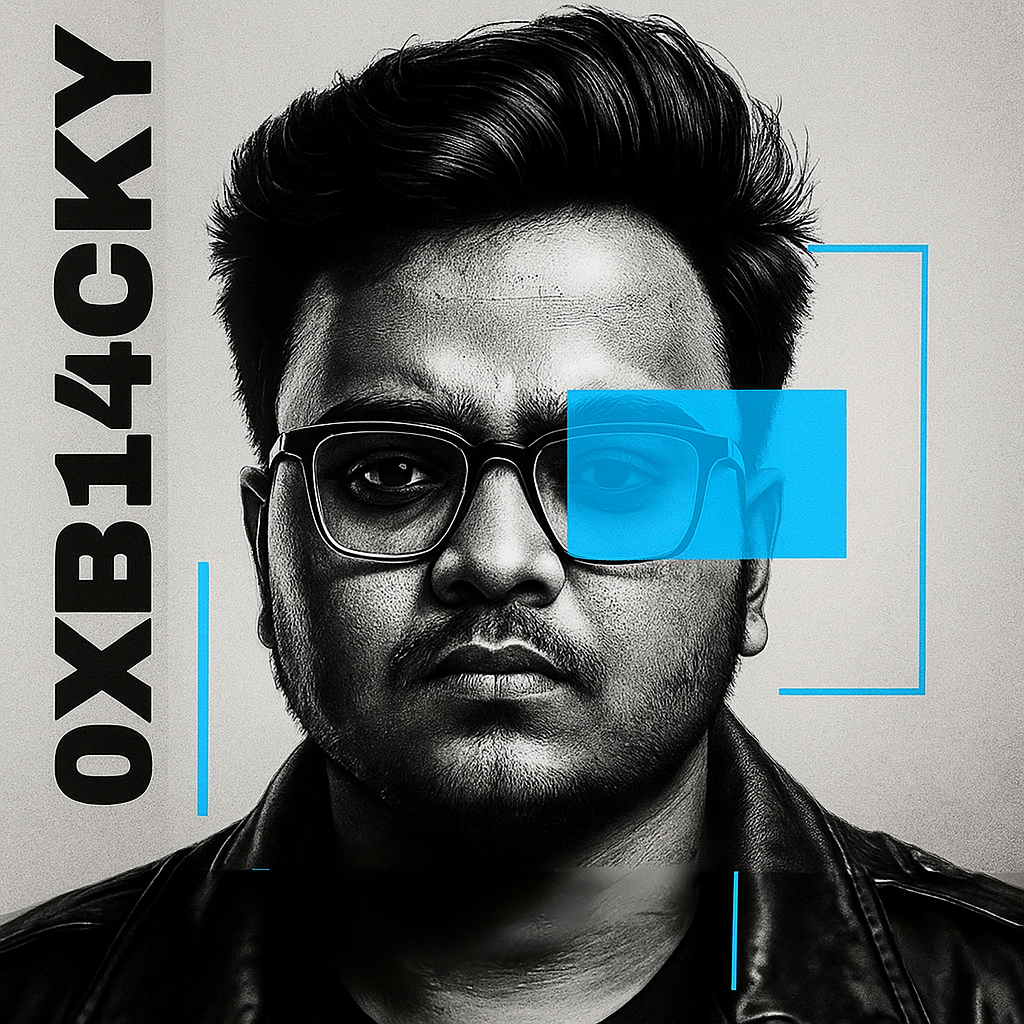
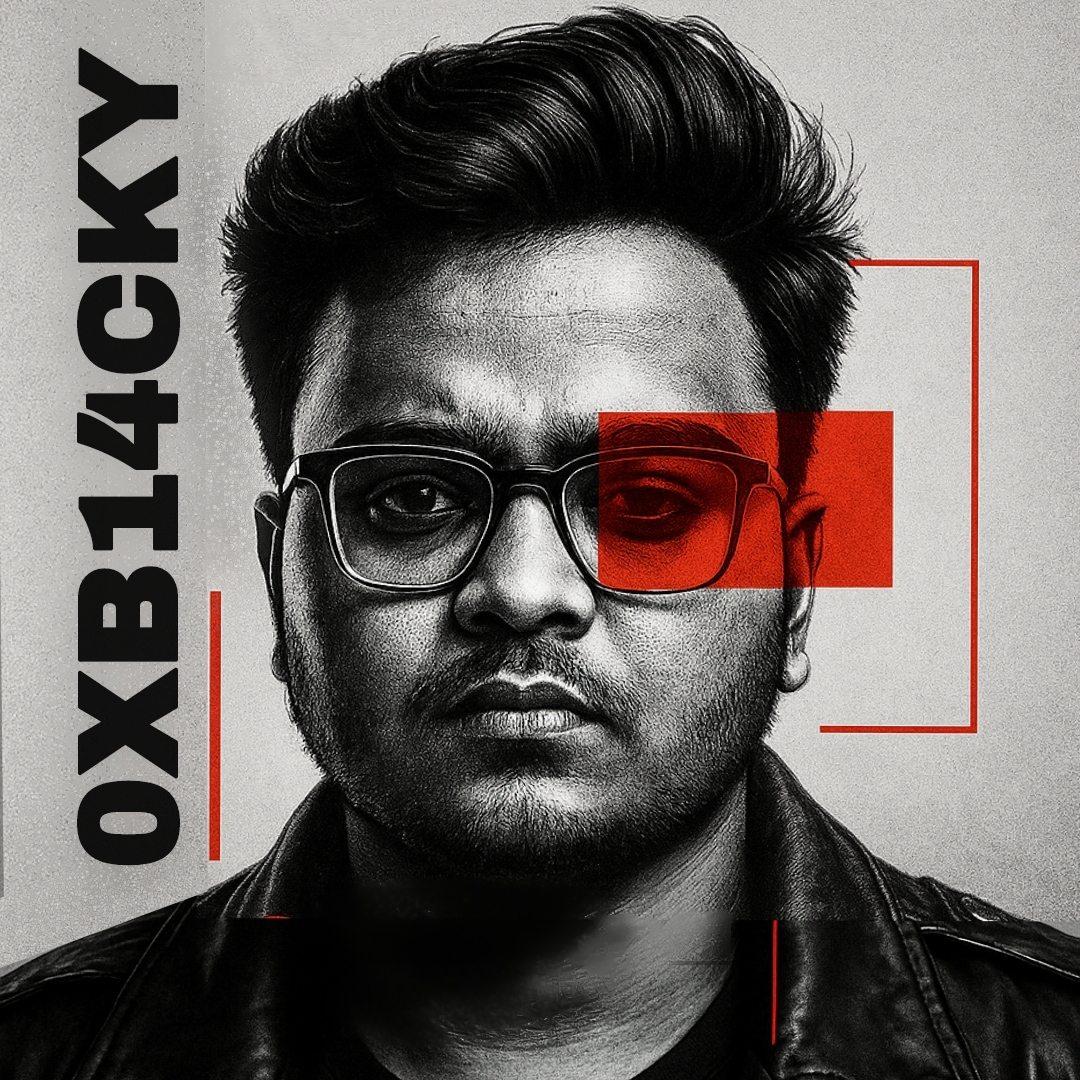
Updated with latest changes

diff --git a/src/config.ts b/src/config.ts
@@ -11,8 +11,8 @@ export const siteConfig: SiteConfig = {
   subtitle: '',
   lang: 'en',         // 'en', 'zh_CN', 'zh_TW', 'ja', 'ko'
   themeColor: {
-    hue: 250,         // Default hue for the theme color, from 0 to 360. e.g. red: 0, teal: 200, cyan: 250, pink: 345
-    fixed: false,     // Hide the theme color picker for visitors
+    hue: 0,         // Default hue for the theme color, from 0 to 360. e.g. red: 0, teal: 200, cyan: 250, pink: 345
+    fixed: true,     // Hide the theme color picker for visitors
   },
   banner: {
     enable: true,
